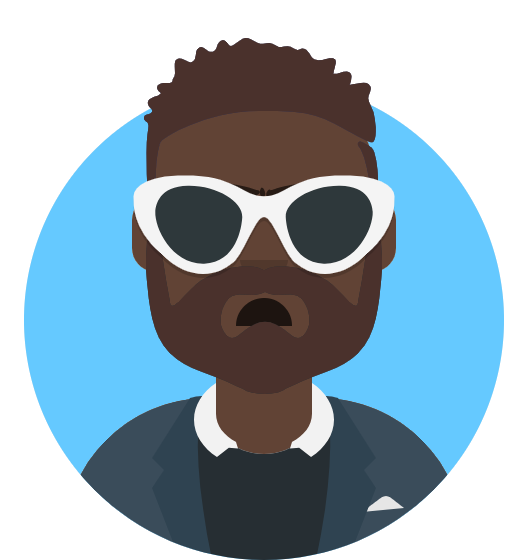
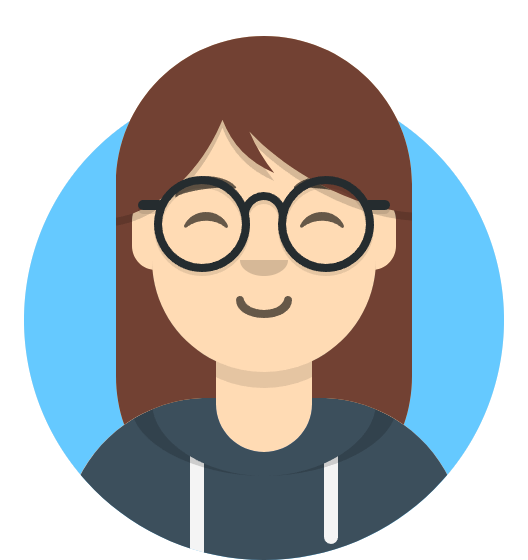
perfil Lucia

diff --git a/RED SOCIAL/perfilPropioLucia.html b/RED SOCIAL/perfilPropioLucia.html
@@ -1,0 +1,292 @@
+<!DOCTYPE html>
+<html lang="en">
+  <head>
+    <meta charset="UTF-8" />
+    <meta http-equiv="X-UA-Compatible" content="IE=edge" />
+    <meta name="viewport" content="width=device-width, initial-scale=1.0" />
+    <title>Perfil</title>
+    <!-- BOOTSTRAP CSS -->
+    <link
+      href="https://cdn.jsdelivr.net/npm/bootstrap@5.3.0-alpha1/dist/css/bootstrap.min.css"
+      rel="stylesheet"
+      integrity="sha384-GLhlTQ8iRABdZLl6O3oVMWSktQOp6b7In1Zl3/Jr59b6EGGoI1aFkw7cmDA6j6gD"
+      crossorigin="anonymous"
+    />
+
+    <!-- FONT AWESOME -->
+    <script
+      src="https://kit.fontawesome.com/43124feaf5.js"
+      crossorigin="anonymous"
+    ></script>
+    <!-- CSS STYLESHEETS (después de Bootstrap!)-->
+    <link rel="stylesheet" href="estilosPrincipal.css" />
+  </head>
+  <body>
+    <!--BARRA DE NAVEGACIÓN-->
+    <nav class="navbar navbar-expand-lg">
+      <div class="container-fluid">
+        <div class="row nav-body">
+          <!-- Logo -->
+          <div class="col">
+            <a class="navbar-brand" href="#">
+              <img src="./img/logo2.png" alt="Logo" class="keybook-logo" />
+            </a>
+          </div>
+
+          <!-- Search bar -->
+          <div class="col-8 search-bar">
+            <form class="d-flex">
+              <input
+                class="form-control me-2 search-input"
+                type="search"
+                placeholder="Búsqueda..."
+                aria-label="Buscar"
+                size="50"
+              />
+            </form>
+          </div>
+
+          <!-- Hamburger dropdown -->
+          <div class="col">
+            <button
+              class="navbar-toggler"
+              type="button"
+              data-bs-toggle="collapse"
+              data-bs-target="#navbarNav"
+              aria-controls="navbarNav"
+              aria-expanded="false"
+              aria-label="Toggle navigation"
+            >
+              <span class="navbar-toggler-icon"></span>
+            </button>
+            <div class="collapse navbar-collapse" id="navbarNav">
+              <ul class="navbar-nav me-auto mb-2 mb-lg-0 nav-icons">
+                <!-- Mensajes -->
+                <li class="nav-item">
+                  <a class="nav-link active" aria-current="page" href="#">
+                    <span
+                      class="fa fa-comment-dots icon"
+                      title="Mensajes"
+                    ></span>
+                  </a>
+                </li>
+                <!-- Notificaciones -->
+                <li class="nav-item">
+                  <a class="nav-link active" aria-current="page" href="#">
+                    <span
+                      class="fas fa-bell icon"
+                      title="Notificaciones"
+                    ></span>
+                  </a>
+                </li>
+                <!-- Perfil -->
+                <li>
+                  <a class="nav-link active" aria-current="page" href="#">
+                    <span class="fa fa-user icon" title="Mi Perfil"></span
+                  ></a>
+                </li>
+                <!-- Configuración -->
+                <li>
+                  <a class="dropdown-item" href="#">
+                    <span class="fa fa-cog icon" title="Configuración"></span
+                  ></a>
+                </li>
+                <!-- Logout -->
+                <li>
+                  <a class="dropdown-item" href="/logout">
+                    <span
+                      class="fas fa-sign-out-alt icon"
+                      title="Desconectarse"
+                    ></span>
+                  </a>
+                </li>
+              </ul>
+            </div>
+          </div>
+        </div>
+      </div>
+    </nav>
+    <main>
+      <!--Menu lateral izquierda-->
+      <div class="container-fluid main-structure">
+        <div class="row">
+          <div class="col-sm-5 col-md-4 col-lg-3">
+            <div class="default-card">
+              <h4>
+                <i class="fa-solid fa-user-graduate icon" title="Formacion"></i>
+                FORMACION
+              </h4>
+              <ul>
+                <a>
+                  Tecla Coding Academy
+                  <p>Full Stack Bootcamp</p>
+                </a>
+                <a>
+                  Udemy
+                  <p>Python Bootcamp</p>
+                </a>
+                <a>
+                  Udemy
+                  <p>Web Development</p>
+                </a>
+              </ul>
+            </div>
+            <div class="default-card idiomas">
+              <h4>
+                <i class="fa-solid fa-language icon" title="Idiomas"></i>
+                IDIOMAS
+              </h4>
+              <ul>
+                <a>
+                  Español
+                  <p>Nativo</p>
+                </a>
+                <a>
+                  Inglés
+                  <p>Avanzado</p>
+                </a>
+                <a>
+                  Alemán
+                  <p>Intermedio</p>
+                </a>
+                <a>
+                  Coreano
+                  <p>Básico</p>
+                </a>
+              </ul>
+            </div>
+            <div class="default-card tecnicas">
+              <h4>
+                <i class="fa-solid fa-computer icon" title="Técnicas"></i>
+                HABILIDADES
+              </h4>
+              <ul>     
+                <li>HTML & CSS</li>           
+                <li>Javascript</li>
+                <li>Node</li>
+              
+              </ul>
+            </div>
+          </div>
+
+          <!--Contenido-->
+          <div class="col-sm-7 col-md-7 col-lg-6">
+            <div class="default-card">
+              <div class="profile-details">
+                <div>
+                  <h2>
+                    Lucia Sáenz
+                    <button class="btn btn-warning btn-sm">Añadir +</button>
+                  </h2>
+                </div>
+                <div>
+                  <h5>Gijón, España</h5>
+                  <h5>16/06/1992</h5>
+                </div>
+              </div>
+              <div class="user-bio">
+                <img
+                  src="img/avatares/Lucia.png"
+                  alt="avatar"
+                  class="avatar avatar-perfil"
+                />
+                <p>
+                  Lorem, ipsum dolor sit amet consectetur adipisicing elit.
+                  Veritatis eaque repudiandae qui natus vero aspernatur labore
+                  ullam itaque ipsa architecto numquam quae quod debitis sit,
+                  culpa reprehenderit obcaecati! Recusandae, ea?
+                </p>
+              </div>
+            </div>
+
+            <div class="default-card">
+              <h4>EXPERIENCIA LABORAL</h4>
+              <p>Lugar de trabajo | Fecha</p>
+              <p>
+                Lorem ipsum, dolor sit amet consectetur adipisicing elit. Dicta,
+                velit, suscipit ratione dolore, quibusdam praesentium at amet
+                adipisci nihil similique tempore aspernatur? Nulla officiis
+                veniam possimus repudiandae enim! Est, cumque.
+              </p>
+              <p>Lugar de trabajo | Fecha</p>
+              <p>
+                Lorem ipsum, dolor sit amet consectetur adipisicing elit. Dicta,
+                velit, suscipit ratione dolore, quibusdam praesentium at amet
+                adipisci nihil similique tempore aspernatur? Nulla officiis
+                veniam possimus repudiandae enim! Est, cumque.
+              </p>
+              <p>Lugar de trabajo | Fecha</p>
+              <p>
+                Lorem ipsum, dolor sit amet consectetur adipisicing elit. Dicta,
+                velit, suscipit ratione dolore, quibusdam praesentium at amet
+                adipisci nihil similique tempore aspernatur? Nulla officiis
+                veniam possimus repudiandae enim! Est, cumque.
+              </p>
+              <p>Lugar de trabajo | Fecha</p>
+              <p>
+                Lorem ipsum, dolor sit amet consectetur adipisicing elit. Dicta,
+                velit, suscipit ratione dolore, quibusdam praesentium at amet
+                adipisci nihil similique tempore aspernatur? Nulla officiis
+                veniam possimus repudiandae enim! Est, cumque.
+              </p>
+              <p>Lugar de trabajo | Fecha</p>
+              <p>
+                Lorem ipsum, dolor sit amet consectetur adipisicing elit. Dicta,
+                velit, suscipit ratione dolore, quibusdam praesentium at amet
+                adipisci nihil similique tempore aspernatur? Nulla officiis
+                veniam possimus repudiandae enim! Est, cumque.
+              </p>
+            </div>
+          </div>
+
+          <div class="col-sm-5 col-md-4 col-lg-3">
+            <div class="default-card contacto">
+              <h4>
+                <i class="fa-solid fa-phone icon" title="Contacto"></i>
+                CONTACTO
+              </h4>
+
+              <ul>
+                <li>lulusita92@gmail.com</li>
+                <li>612345678</li>
+                <a
+                  href="https://www.facebook.com/"
+                  class="fa-brands fa-facebook icon"
+                  title="Facebook"
+                  target="”_blank”"
+                ></a>
+                <a
+                  href="https://www.linkedin.com/feed/"
+                  class="fa-brands fa-linkedin icon"
+                  title="Linkedin"
+                  target="”_blank”"
+                ></a>
+                <a
+                  href="https://github.com/"
+                  class="fa-brands fa-github icon"
+                  title="GitHub"
+                  target="”_blank”"
+                ></a>
+              </ul>
+            </div>
+
+            <div class="default-card solicitudes">
+              <h4><i class="fa-solid fa-person-walking icon"></i>INTERESES</h4>
+              <ul>
+                <li>Salud mental</li>
+                <li>Medio ambiente</li>
+                <li>Leer</li>
+              </ul>
+            </div>
+          </div>
+        </div>
+      </div>
+    </main>
+    <footer class="footer">
+      <div class="text-center p-3">
+        2023 Keybook ©
+        <a class="footer-url" href="#">Keybook.com</a>
+      </div>
+    </footer>
+  </body>
+</html>

diff --git a/RED SOCIAL/index.html b/RED SOCIAL/index.html
@@ -99,7 +99,8 @@
               </li>
 
               <li>
-                <img src="img/avatares/lucia.png" alt="Avatar" class="avatar" />Lucia
+                <a href="./perfilPropioLucia.html" title="Perfil Lucia"><img src="img/avatares/lucia.png"
+                    alt="Avatar" class="avatar" /></a>Lucia
               </li>
 
               <li>
